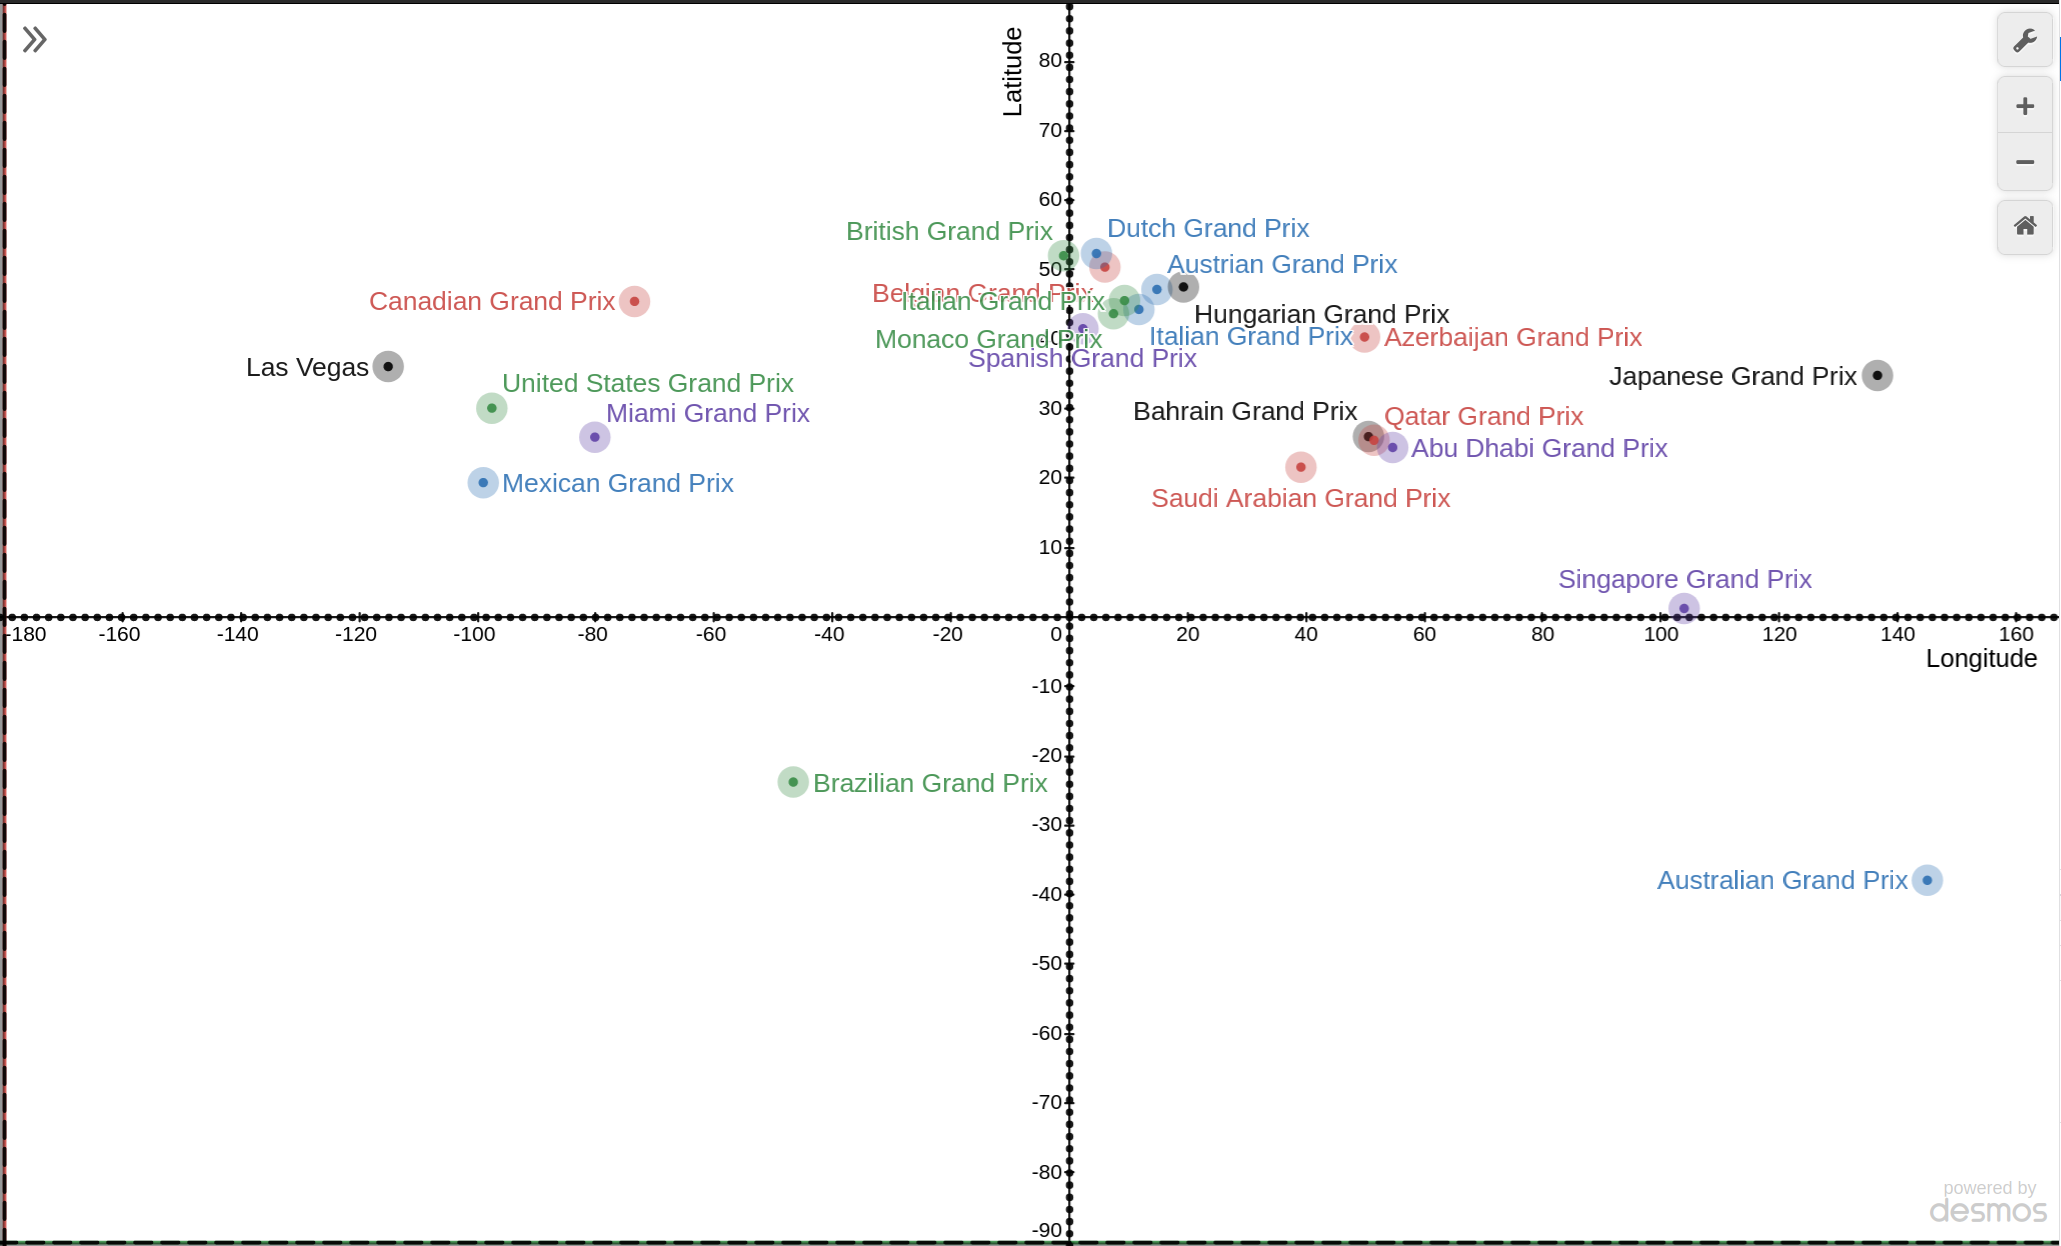
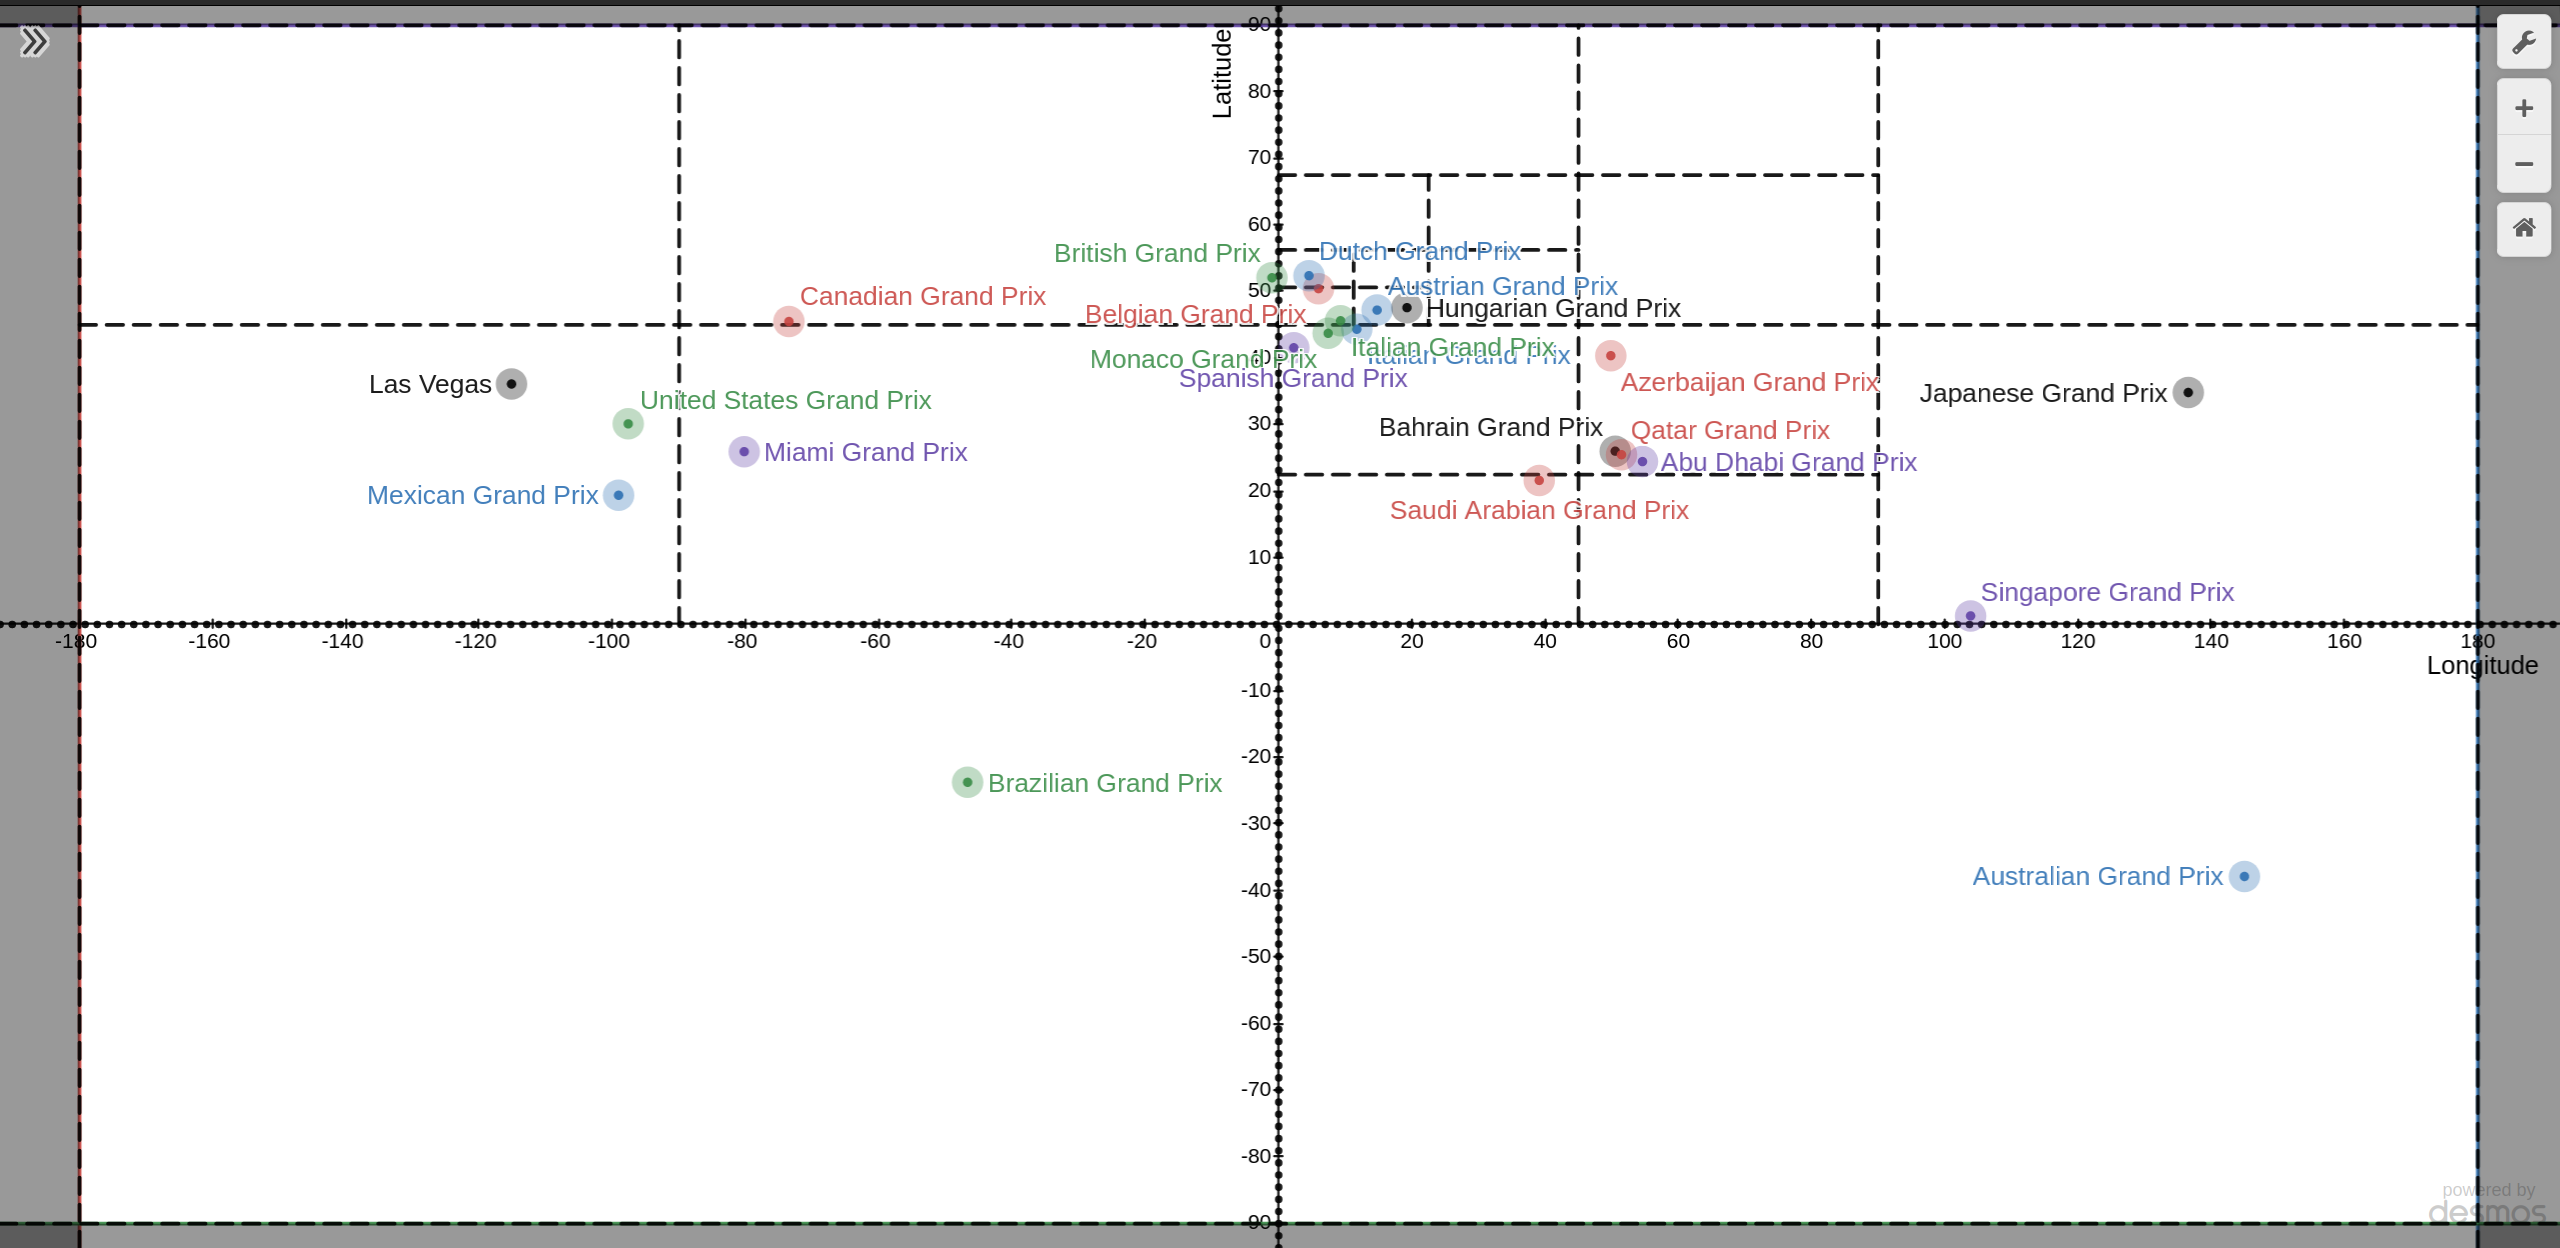
Update README

Changed region(s): [[0.0, 0.0, 1.0, 1.0], [0.7142, 0.122, 0.7453, 0.1525]]

diff --git a/README.md b/README.md
@@ -38,7 +38,7 @@ This will find the nearest Formula 1 race to the coordinates (33.8823 -117.8827)
 
 ## Implementation
 
-This program will be implemented using a quadtree data structure to store the locations of all the Formula 1 races. The locations will be stored as latitude and longitude coordinates.
+This program will be implemented using a quadtree data structure to store the locations of all the Formula 1 races. The locations will be stored as latitude and longitude coordinates. You can see the desmos graph below [here](https://www.desmos.com/calculator/gyz7rbaqzo).
 
 ![image](./img/Grid.png)
 
